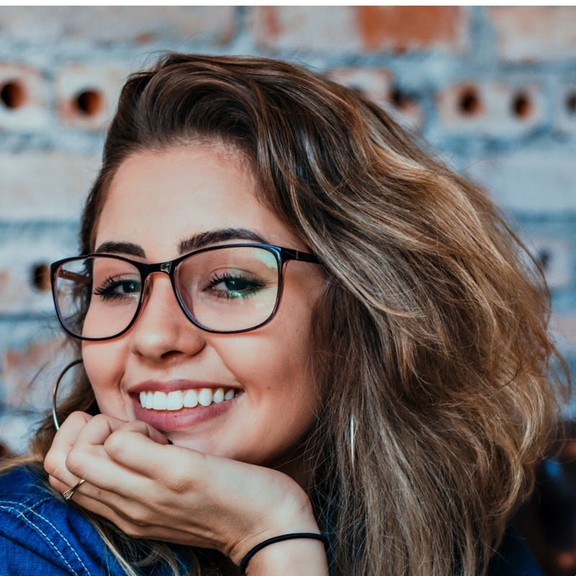
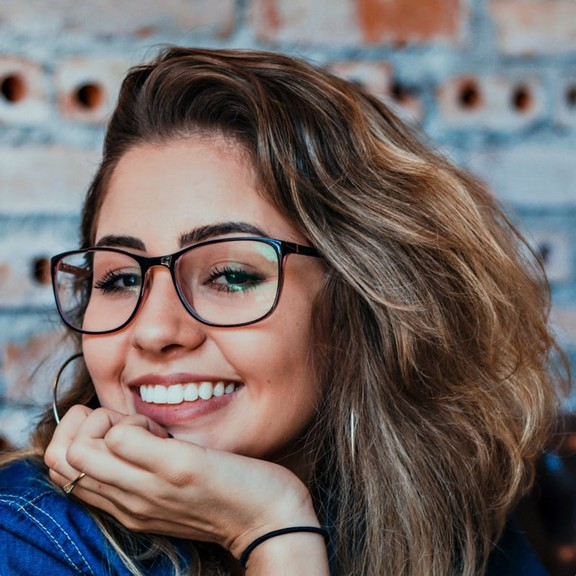
rework recall images

diff --git a/src/index.html b/src/index.html
@@ -300,9 +300,9 @@
             <img srcset="./img/functional-training-680.jpg 680w,
                         ./img/functional-training-576.jpg 576w"
 
-                 sizes=" (min-width: 1200px) 22vw,
-                        (min-width: 768px) 44vw,
-                        90vw"
+                 sizes="(min-width: 1200px) 273px,
+                            (min-width: 768px) 340px,
+                            288px"
 
                  src="./img/functional-training-680.jpg"
                  loading="lazy"
@@ -326,9 +326,9 @@
             <img srcset="./img/food-680.jpg 680w,
                         ./img/food-576.jpg 576w"
 
-                 sizes=" (min-width: 1200px) 22vw,
-                        (min-width: 768px) 44vw,
-                        90vw"
+                 sizes="(min-width: 1200px) 273px,
+                            (min-width: 768px) 340px,
+                            288px"
 
                  src="./img/food-680.jpg"
                  loading="lazy"
@@ -348,9 +348,9 @@
             <img srcset="./img/look-680.jpg 680w,
                         ./img/look-576.jpg 576w"
 
-                 sizes=" (min-width: 1200px) 22vw,
-                        (min-width: 768px) 44vw,
-                        90vw"
+                 sizes="(min-width: 1200px) 273px,
+                            (min-width: 768px) 340px,
+                            288px"
 
                  src="./img/look-680.jpg"
                  loading="lazy"
@@ -370,9 +370,9 @@
             <img srcset="./img/psych-680.jpg 680w,
                         ./img/psych-576.jpg 576w"
 
-                 sizes=" (min-width: 1200px) 22vw,
-                        (min-width: 768px) 44vw,
-                        90vw"
+                 sizes="(min-width: 1200px) 273px,
+                            (min-width: 768px) 340px,
+                            288px"
 
                  src="./img/psych-680.jpg"
                  loading="lazy"
@@ -438,9 +438,9 @@
                 <img srcset="./img/Natalia-Barseneva-680.jpg 680w,
                         ./img/Natalia-Barseneva-576.jpg 576w"
 
-                     sizes=" (min-width: 1200px) 22vw,
-                        (min-width: 768px) 44vw,
-                        90vw"
+                     sizes="(min-width: 1200px) 273px,
+                            (min-width: 768px) 340px,
+                            288px"
 
                      src="./img/Natalia-Barseneva-680.jpg"
                      loading="lazy"
@@ -470,9 +470,9 @@
                 <img srcset="./img/Alina-Janabaeva-680.jpg 680w,
                         ./img/Alina-Janabaeva-576.jpg 576w"
 
-                     sizes=" (min-width: 1200px) 22vw,
-                        (min-width: 768px) 44vw,
-                        90vw"
+                     sizes="(min-width: 1200px) 273px,
+                            (min-width: 768px) 340px,
+                            288px"
 
                      src="./img/Alina-Janabaeva-680.jpg"
                      loading="lazy"
@@ -501,9 +501,9 @@
                 <img srcset="./img/Elena-Rojnova-680.jpg 680w,
                         ./img/Elena-Rojnova-576.jpg 576w"
 
-                     sizes=" (min-width: 1200px) 22vw,
-                        (min-width: 768px) 44vw,
-                        90vw"
+                     sizes="(min-width: 1200px) 273px,
+                            (min-width: 768px) 340px,
+                            288px"
 
                      src="./img/Elena-Rojnova-680.jpg"
                      loading="lazy"
@@ -532,9 +532,9 @@
                 <img srcset="./img/Natalia-Gureeva-680.jpg 680w,
                         ./img/Natalia-Gureeva-576.jpg 576w"
 
-                     sizes=" (min-width: 1200px) 22vw,
-                        (min-width: 768px) 44vw,
-                        90vw"
+                     sizes="(min-width: 1200px) 273px,
+                            (min-width: 768px) 340px,
+                            288px"
 
                      src="./img/Natalia-Gureeva-680.jpg"
                      loading="lazy"
@@ -894,16 +894,14 @@
             <!-- Slides -->
             <!-- Slide 1 -->
             <div class="swiper-slide recall__swiper-slide">
-                <img srcset="./img/karina-748.jpg 748w,
-                            ./img/karina-680.jpg 680w,
-                            ./img/karina-576.jpg 576w,
-                            ./img/karina-374.jpg 374w,"
+                <img srcset="./img/karina-680.jpg 680w,
+                            ./img/karina-576.jpg 576w"
 
-                     sizes=" (min-width: 1200px) 31vw,
-                            (min-width: 768px) 44vw,
-                            90vw"
+                     sizes="(min-width: 1200px) 374px,
+                            (min-width: 768px) 340px,
+                            288px"
 
-                     src="./img/karina-374.jpg"
+                     src="./img/karina-680.jpg"
                      loading="lazy"
                      alt="Karina"
                      class="recall__card-img">
@@ -926,16 +924,14 @@
             <!-- Slide 1 -->
             <!-- Slide 2 -->
             <div class="swiper-slide recall__swiper-slide">
-                <img srcset="./img/evgenia-748.jpg 748w,
-                            ./img/evgenia-680.jpg 680w,
-                            ./img/evgenia-576.jpg 576w,
-                            ./img/evgenia-374.jpg 374w,"
+                <img srcset="./img/evgenia-680.jpg 680w,
+                            ./img/evgenia-576.jpg 576w"
 
-                     sizes=" (min-width: 1200px) 31vw,
-                            (min-width: 768px) 44vw,
-                            90vw"
+                     sizes="(min-width: 1200px) 374px,
+                            (min-width: 768px) 340px,
+                            288px"
 
-                     src="./img/evgenia-374.jpg"
+                     src="./img/evgenia-680.jpg"
                      loading="lazy"
                      alt="Evgenia"
                      class="recall__card-img">
@@ -957,16 +953,14 @@
             <!-- Slide 2 -->
             <!-- Slide 3 -->
             <div class="swiper-slide recall__swiper-slide">
-                <img srcset="./img/valeria-748.jpg 748w,
-                            ./img/valeria-680.jpg 680w,
-                            ./img/valeria-576.jpg 576w,
-                            ./img/valeria-374.jpg 374w,"
+                <img srcset="./img/valeria-680.jpg 680w,
+                            ./img/valeria-576.jpg 576w"
 
-                     sizes=" (min-width: 1200px) 31vw,
-                            (min-width: 768px) 44vw,
-                            90vw"
+                     sizes="(min-width: 1200px) 374px,
+                            (min-width: 768px) 340px,
+                            288px"
 
-                     src="./img/valeria-374.jpg"
+                     src="./img/valeria-680.jpg"
                      loading="lazy"
                      alt="Valeria"
                      class="recall__card-img">

diff --git a/src/sass/_recall.sass b/src/sass/_recall.sass
@@ -39,6 +39,7 @@
     &__card-img
         width: 288px
         height: 288px
+        margin: 0 auto
         border-radius: 5px
 
     &__card-head
@@ -123,9 +124,9 @@
 
         &__card
 
-        &__card-img
-            width: 374px
-            height: 222px
+        //&__card-img
+        //    width: 374px
+        //    height: 222px
 
         &__card-head
             margin-top: 30px

diff --git a/src/sass/_trainers.sass b/src/sass/_trainers.sass
@@ -39,6 +39,7 @@
     &__card-img
         width: 288px
         height: 288px
+        margin: 0 auto
         border-radius: 5px
 
     &__card-head
